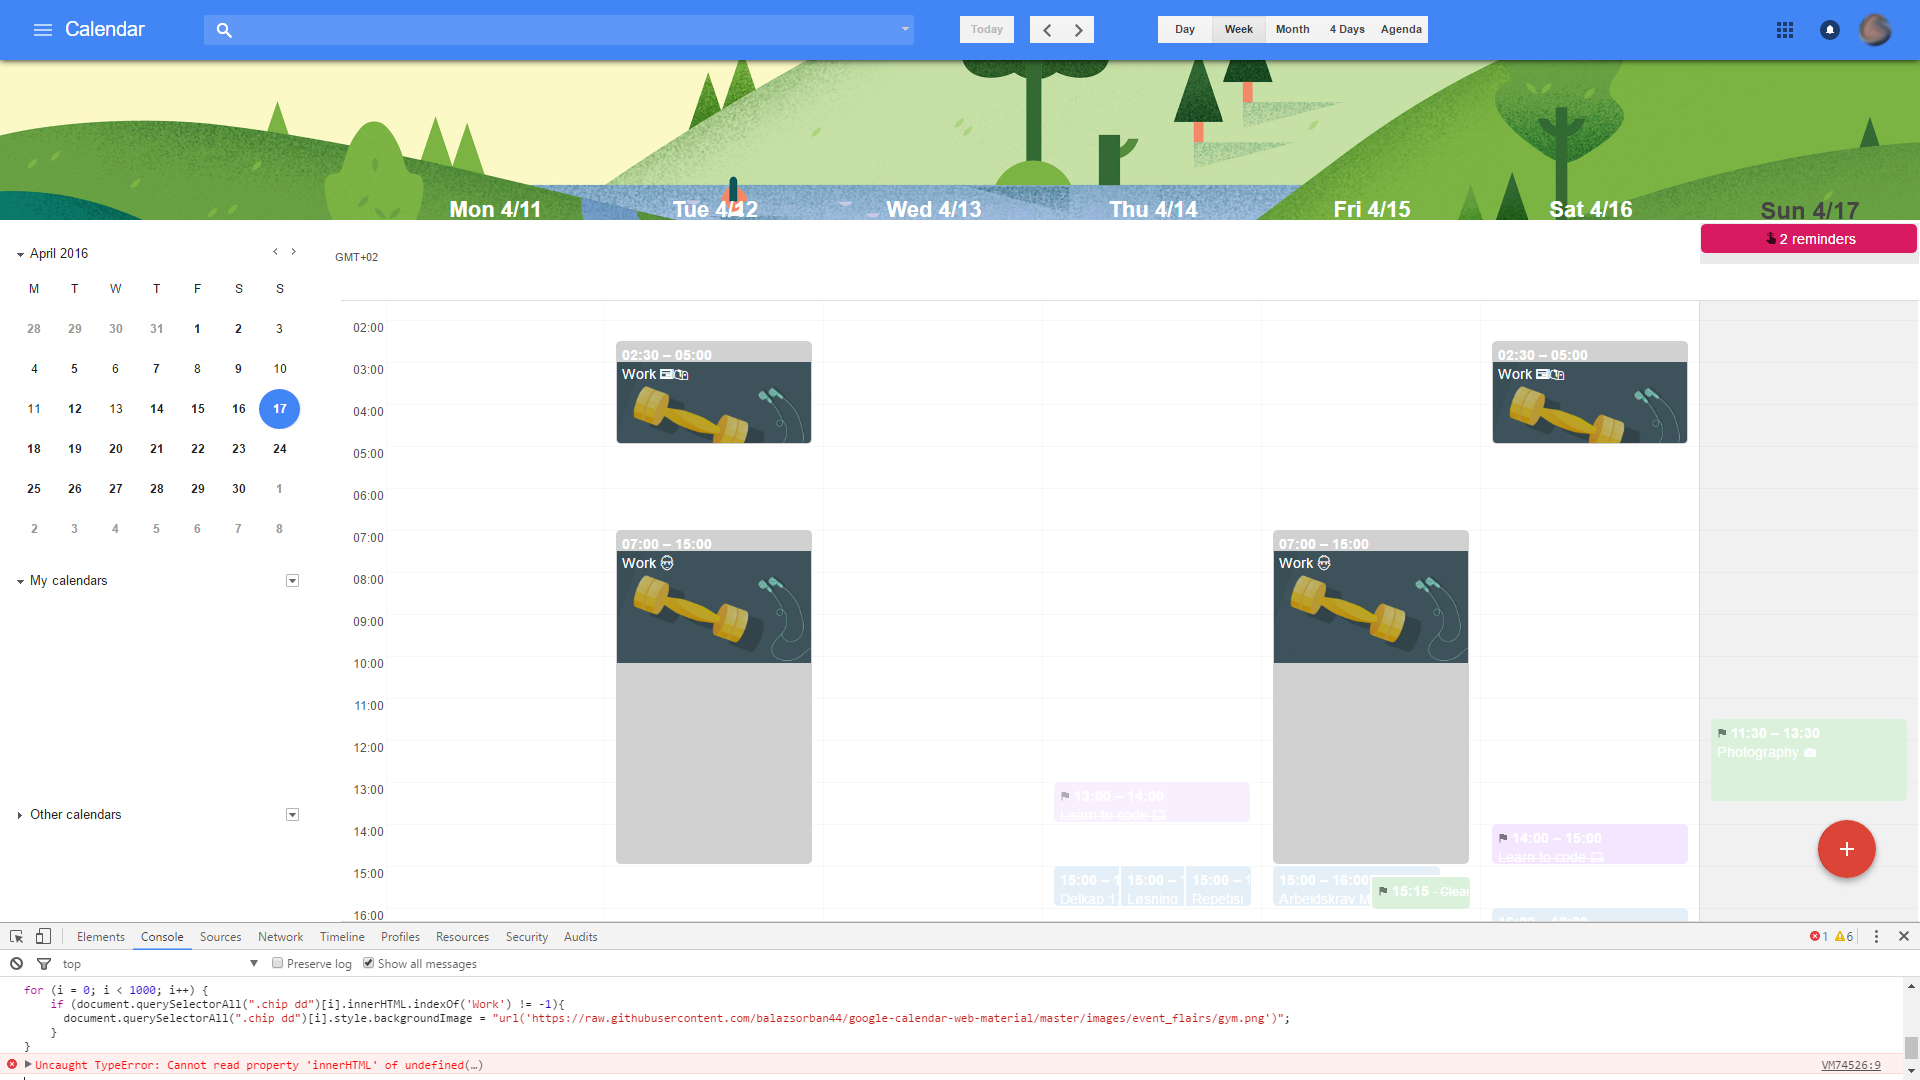
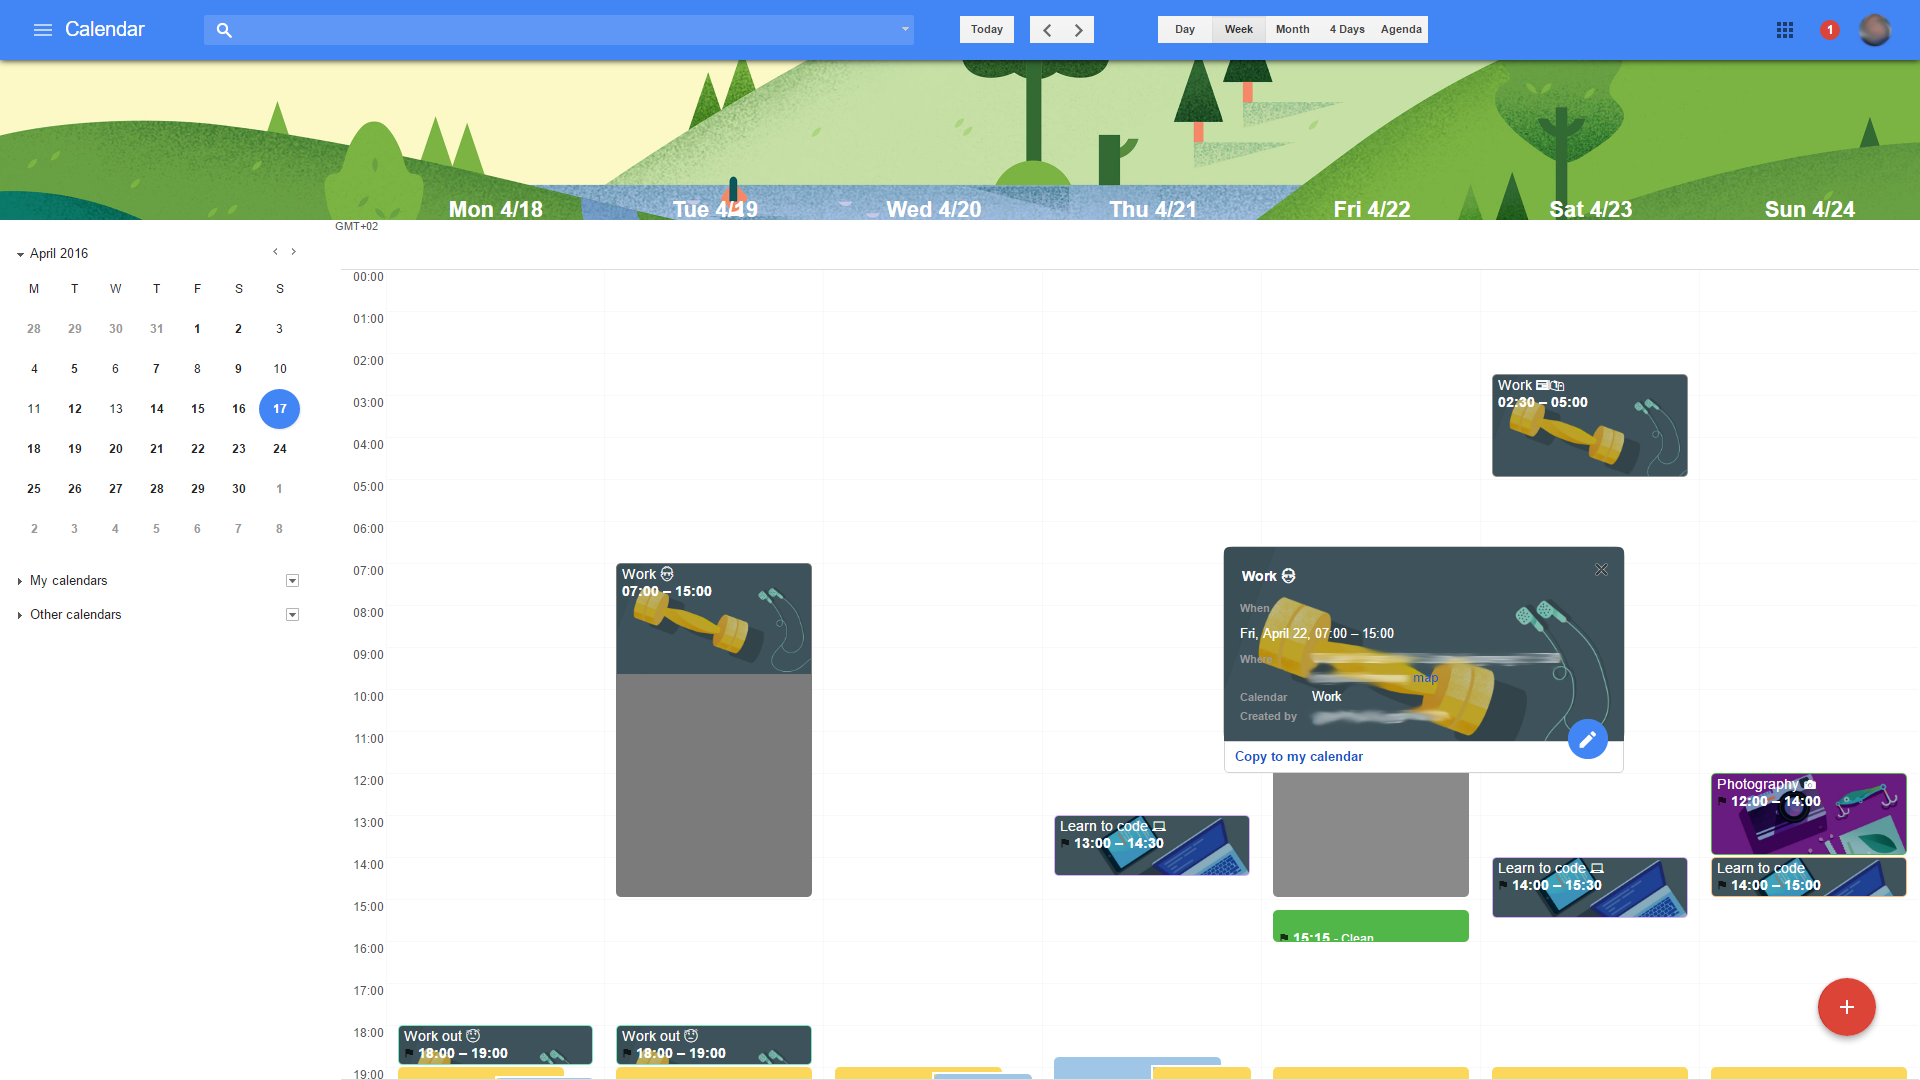
test

diff --git a/user.js b/user.js
@@ -10,10 +10,30 @@
 
 var select=document.querySelectorAll('.chip dd');
   for (i = 0; i < select.length; i++) {
-      var gym = ["gym", "Work", "Work out"],
+    var dinner = ["dinner", "Dinner"];
+    var gym = ["Gym", "Work", "Work out"];
+    var code = ["code", "coding", "programming"];
+    var photo = ["Photography", "Photo", "photos", "image"];
+    var clean = ["vacuum clean", "Clean"];
     compareFunction = function(e) { return select[i].innerHTML.indexOf(e) !== -1; };   
 if (gym.filter(compareFunction).length)
      {
         select[i].style.backgroundImage = "url('https://goo.gl/6uktJo')";
+      }
+else if (dinner.filter(compareFunction).length)
+     {
+        select[i].style.backgroundImage = "url('https://goo.gl/O14CLC')";
+      }
+else if (code.filter(compareFunction).length)
+     {
+        select[i].style.backgroundImage = "url('https://goo.gl/uIiBCo')";
+      }
+else if (photo.filter(compareFunction).length)
+     {
+        select[i].style.backgroundImage = "url('https://goo.gl/7LjvkO')";
+      }
+else if (clean.filter(compareFunction).length)
+     {
+        select[i].style.backgroundImage = "url('https://goo.gl/2A76Xn')";
       }
   }

diff --git a/style.css b/style.css
@@ -248,12 +248,16 @@ top:-30px}
 
 /*Table texts*/
 .chip dd{
+padding-top:10px;
 position:relative;
+top:-1.5em;
 height:100%;
-	background-repeat:no-repeat;
     background-size: 100% auto;
     background-position: top center;}
-
+.chip dt{
+position:relative;
+top: 1em;
+z-index:1}
 .wk-border{
 position:relative;
 left:15px
@@ -288,15 +292,18 @@ left:15px
 
 
 .bubblemain{
-    background: url(https://raw.githubusercontent.com/balazsorban44/google-calendar-web-material/master/images/event_flairs/code.png);
+    background: url(https://goo.gl/O14CLC);
 	background-repeat:no-repeat;
     background-size: 100% auto;
     background-position: top center;
+    border-top-left-radius: 5px;
+    border-top-right-radius: 5px;
+    
 }
-.bubble{
+.bubble, .hin-bubble .title-text, .hin-bubble .when{
     box-shadow:none;
 	color:white;
-
+    border-radius:10px;
 }
 
 
@@ -322,9 +329,12 @@ position:absolute;
 left:0;
 top:100%;
 box-sizing:border-box;
+border-bottom-left-radius: 5px;
+border-bottom-right-radius: 5px;
 border:1px solid lightgrey}
+
 .neb-bold-action{
-padding-left:10px}
+padding-left:10px;}
 
 /*Now marker*/
 
